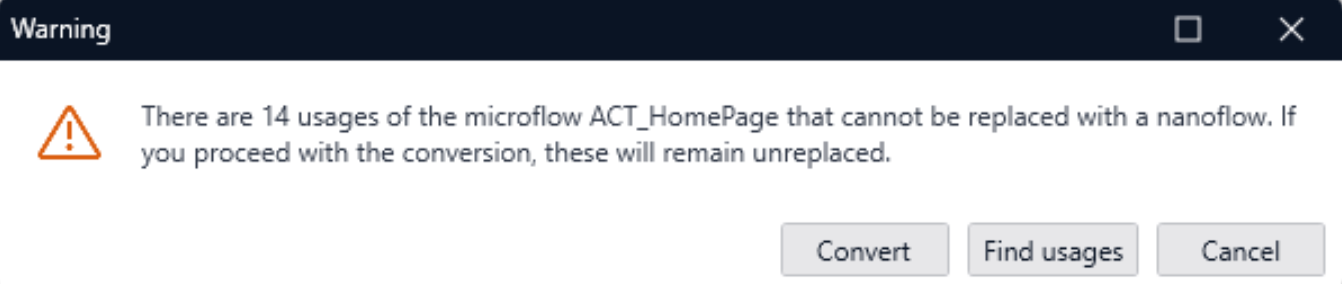
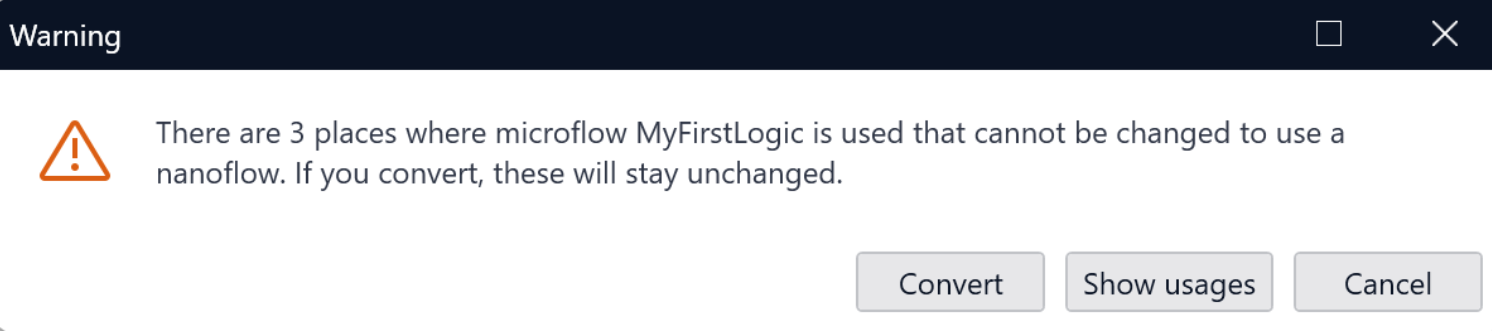
Update the warning dialog for nf mf conversion (Mx 10)

diff --git a/content/en/docs/refguide10/modeling/application-logic/microflows-and-nanoflows/microflows/_index.md b/content/en/docs/refguide10/modeling/application-logic/microflows-and-nanoflows/microflows/_index.md
@@ -131,7 +131,7 @@ Starting from Studio Pro 10.20, there are two options available:
     In the warning dialog, you have the following options:
 
     * **Convert**: The original microflow is removed, only replaceable usages are updated, and any non-replaceable usages remain as they are.
-    * **Find usages**: Stops the conversion and finds usages of the original microflow.
+    * **Show usages**: Stops the conversion and shows the irreplaceable usages of the original microflow.
     * **Cancel**: The conversion is cancelled and no changes are made.
 
 ## Canvas Interaction {#canvas-interaction}

diff --git a/content/en/docs/refguide10/modeling/application-logic/microflows-and-nanoflows/nanoflows/_index.md b/content/en/docs/refguide10/modeling/application-logic/microflows-and-nanoflows/nanoflows/_index.md
@@ -159,7 +159,7 @@ Starting from Studio Pro 10.20, there are two options available:
     In the warning dialog, you have the following options:
 
     * **Convert**: The original nanoflow is removed, only replaceable usages are updated, and any non-replaceable usages remain as they are.
-    * **Find usages**: Stops the conversion and finds usages of the original nanoflow.
+    * **Show usages**: Stops the conversion and shows the irreplaceable usages of the original nanoflow.
     * **Cancel**: The conversion is cancelled and no changes are made.
 
 ## Canvas Interaction
